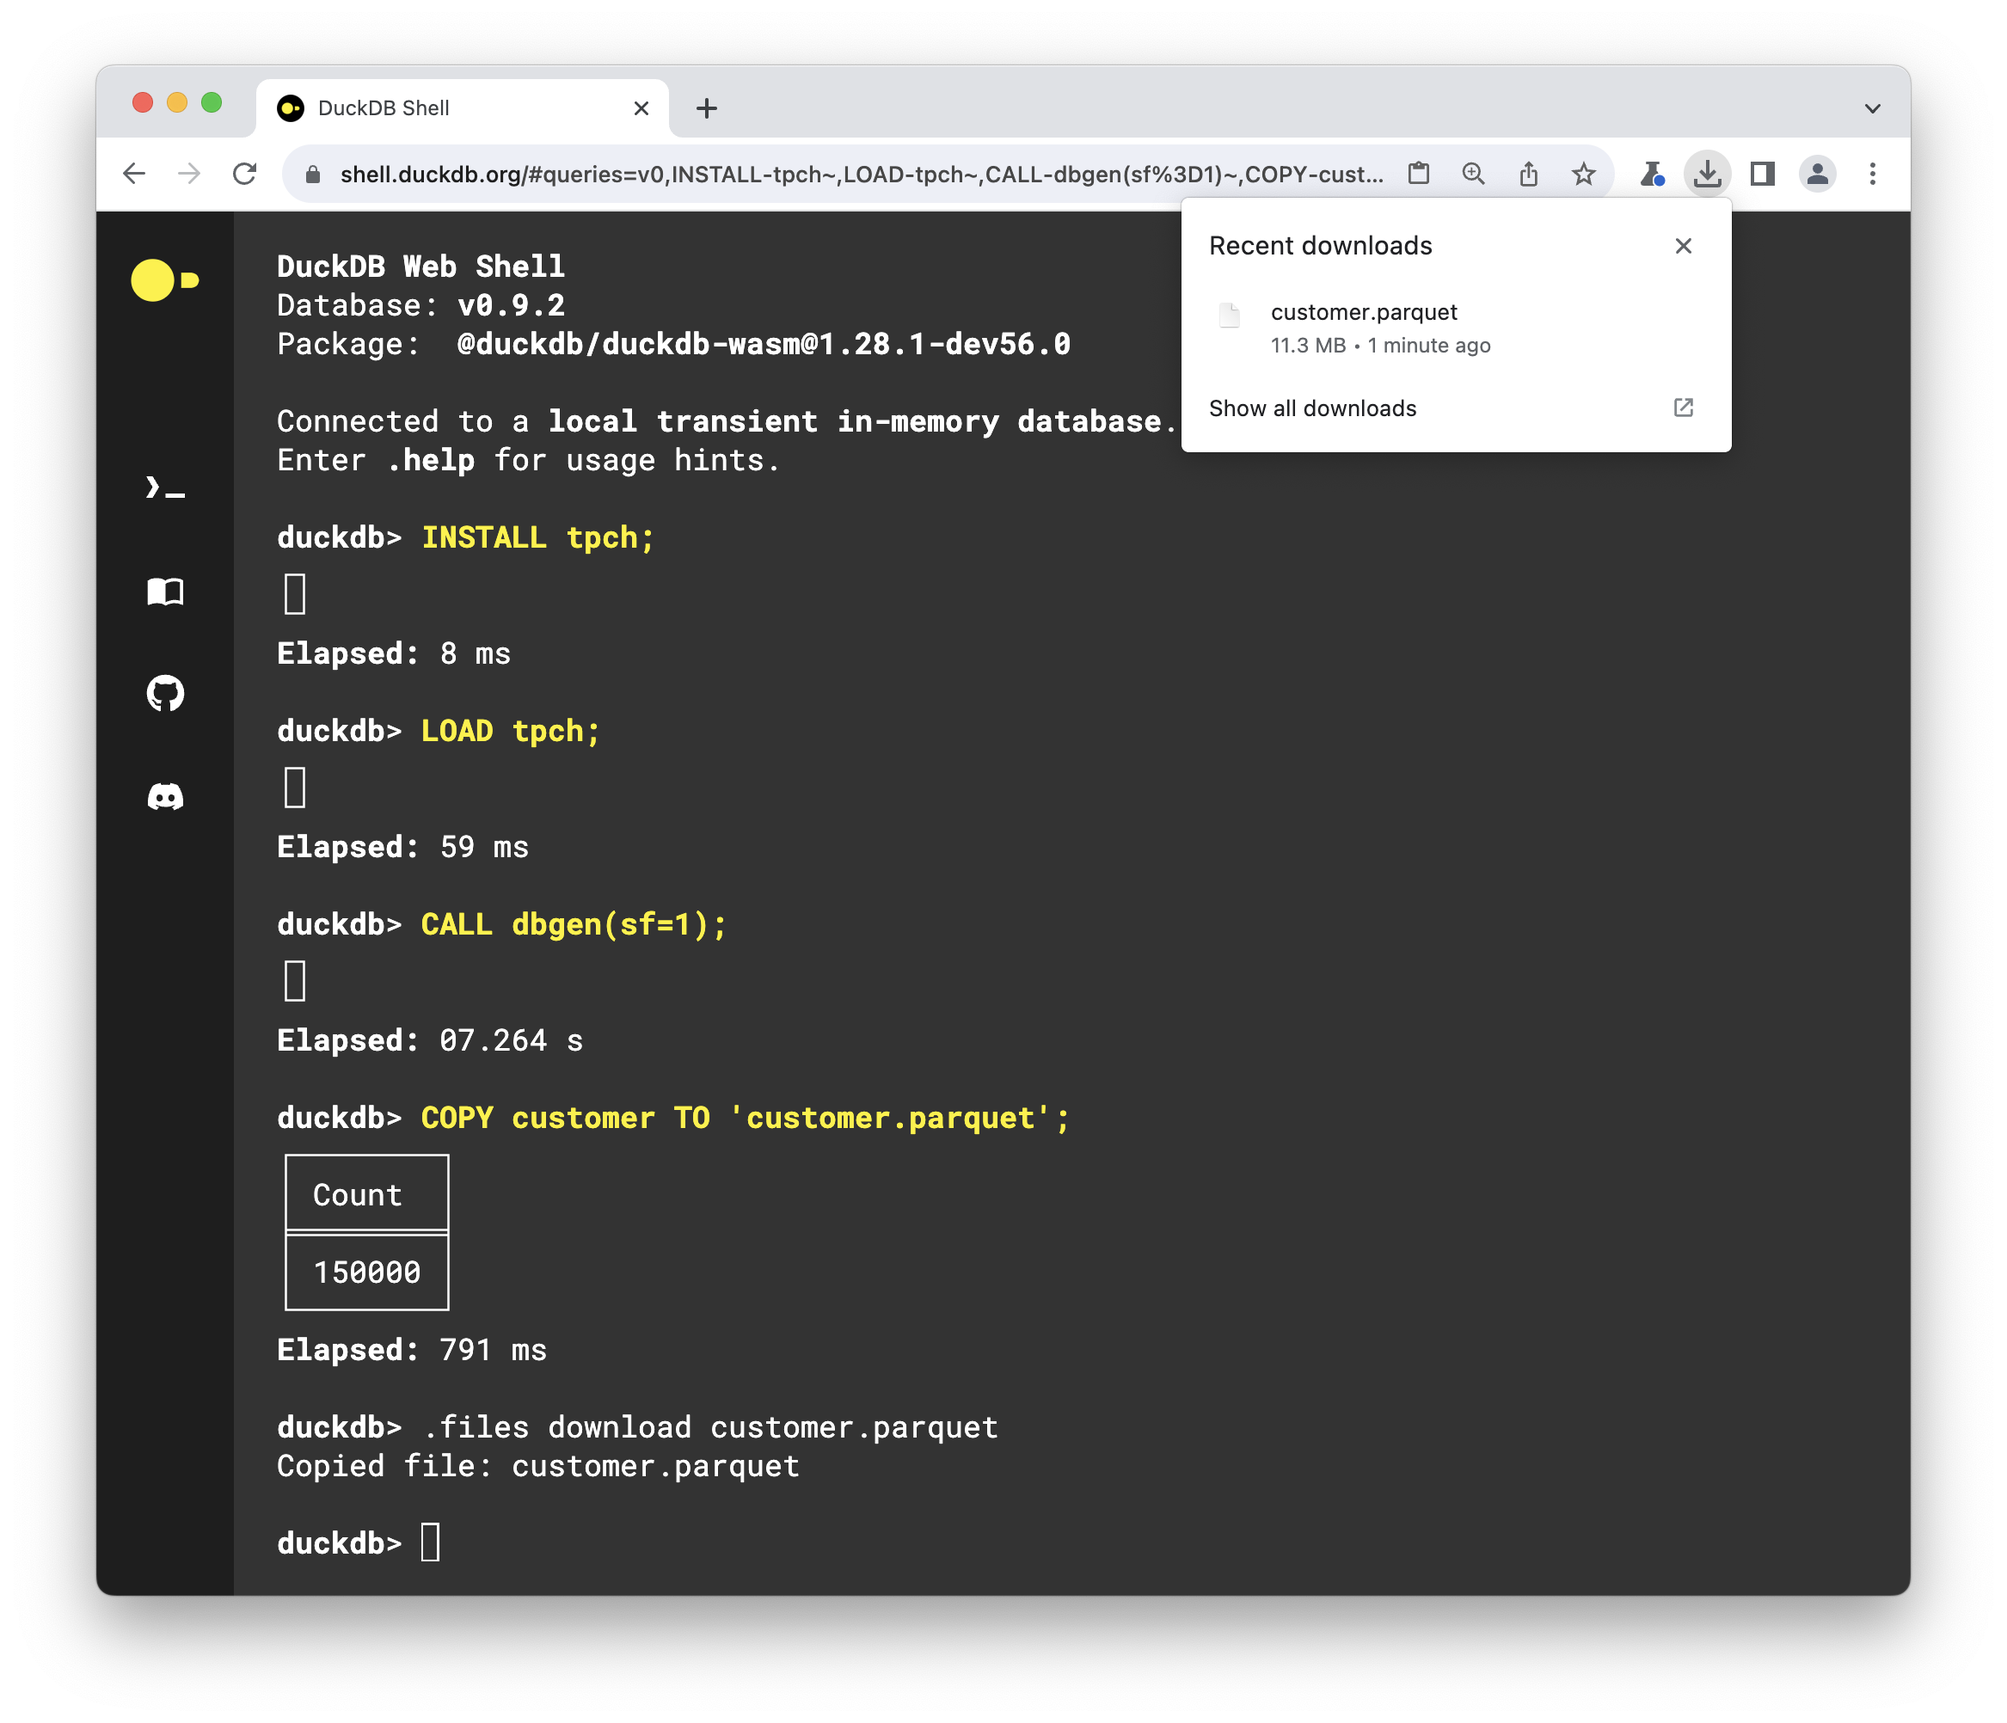
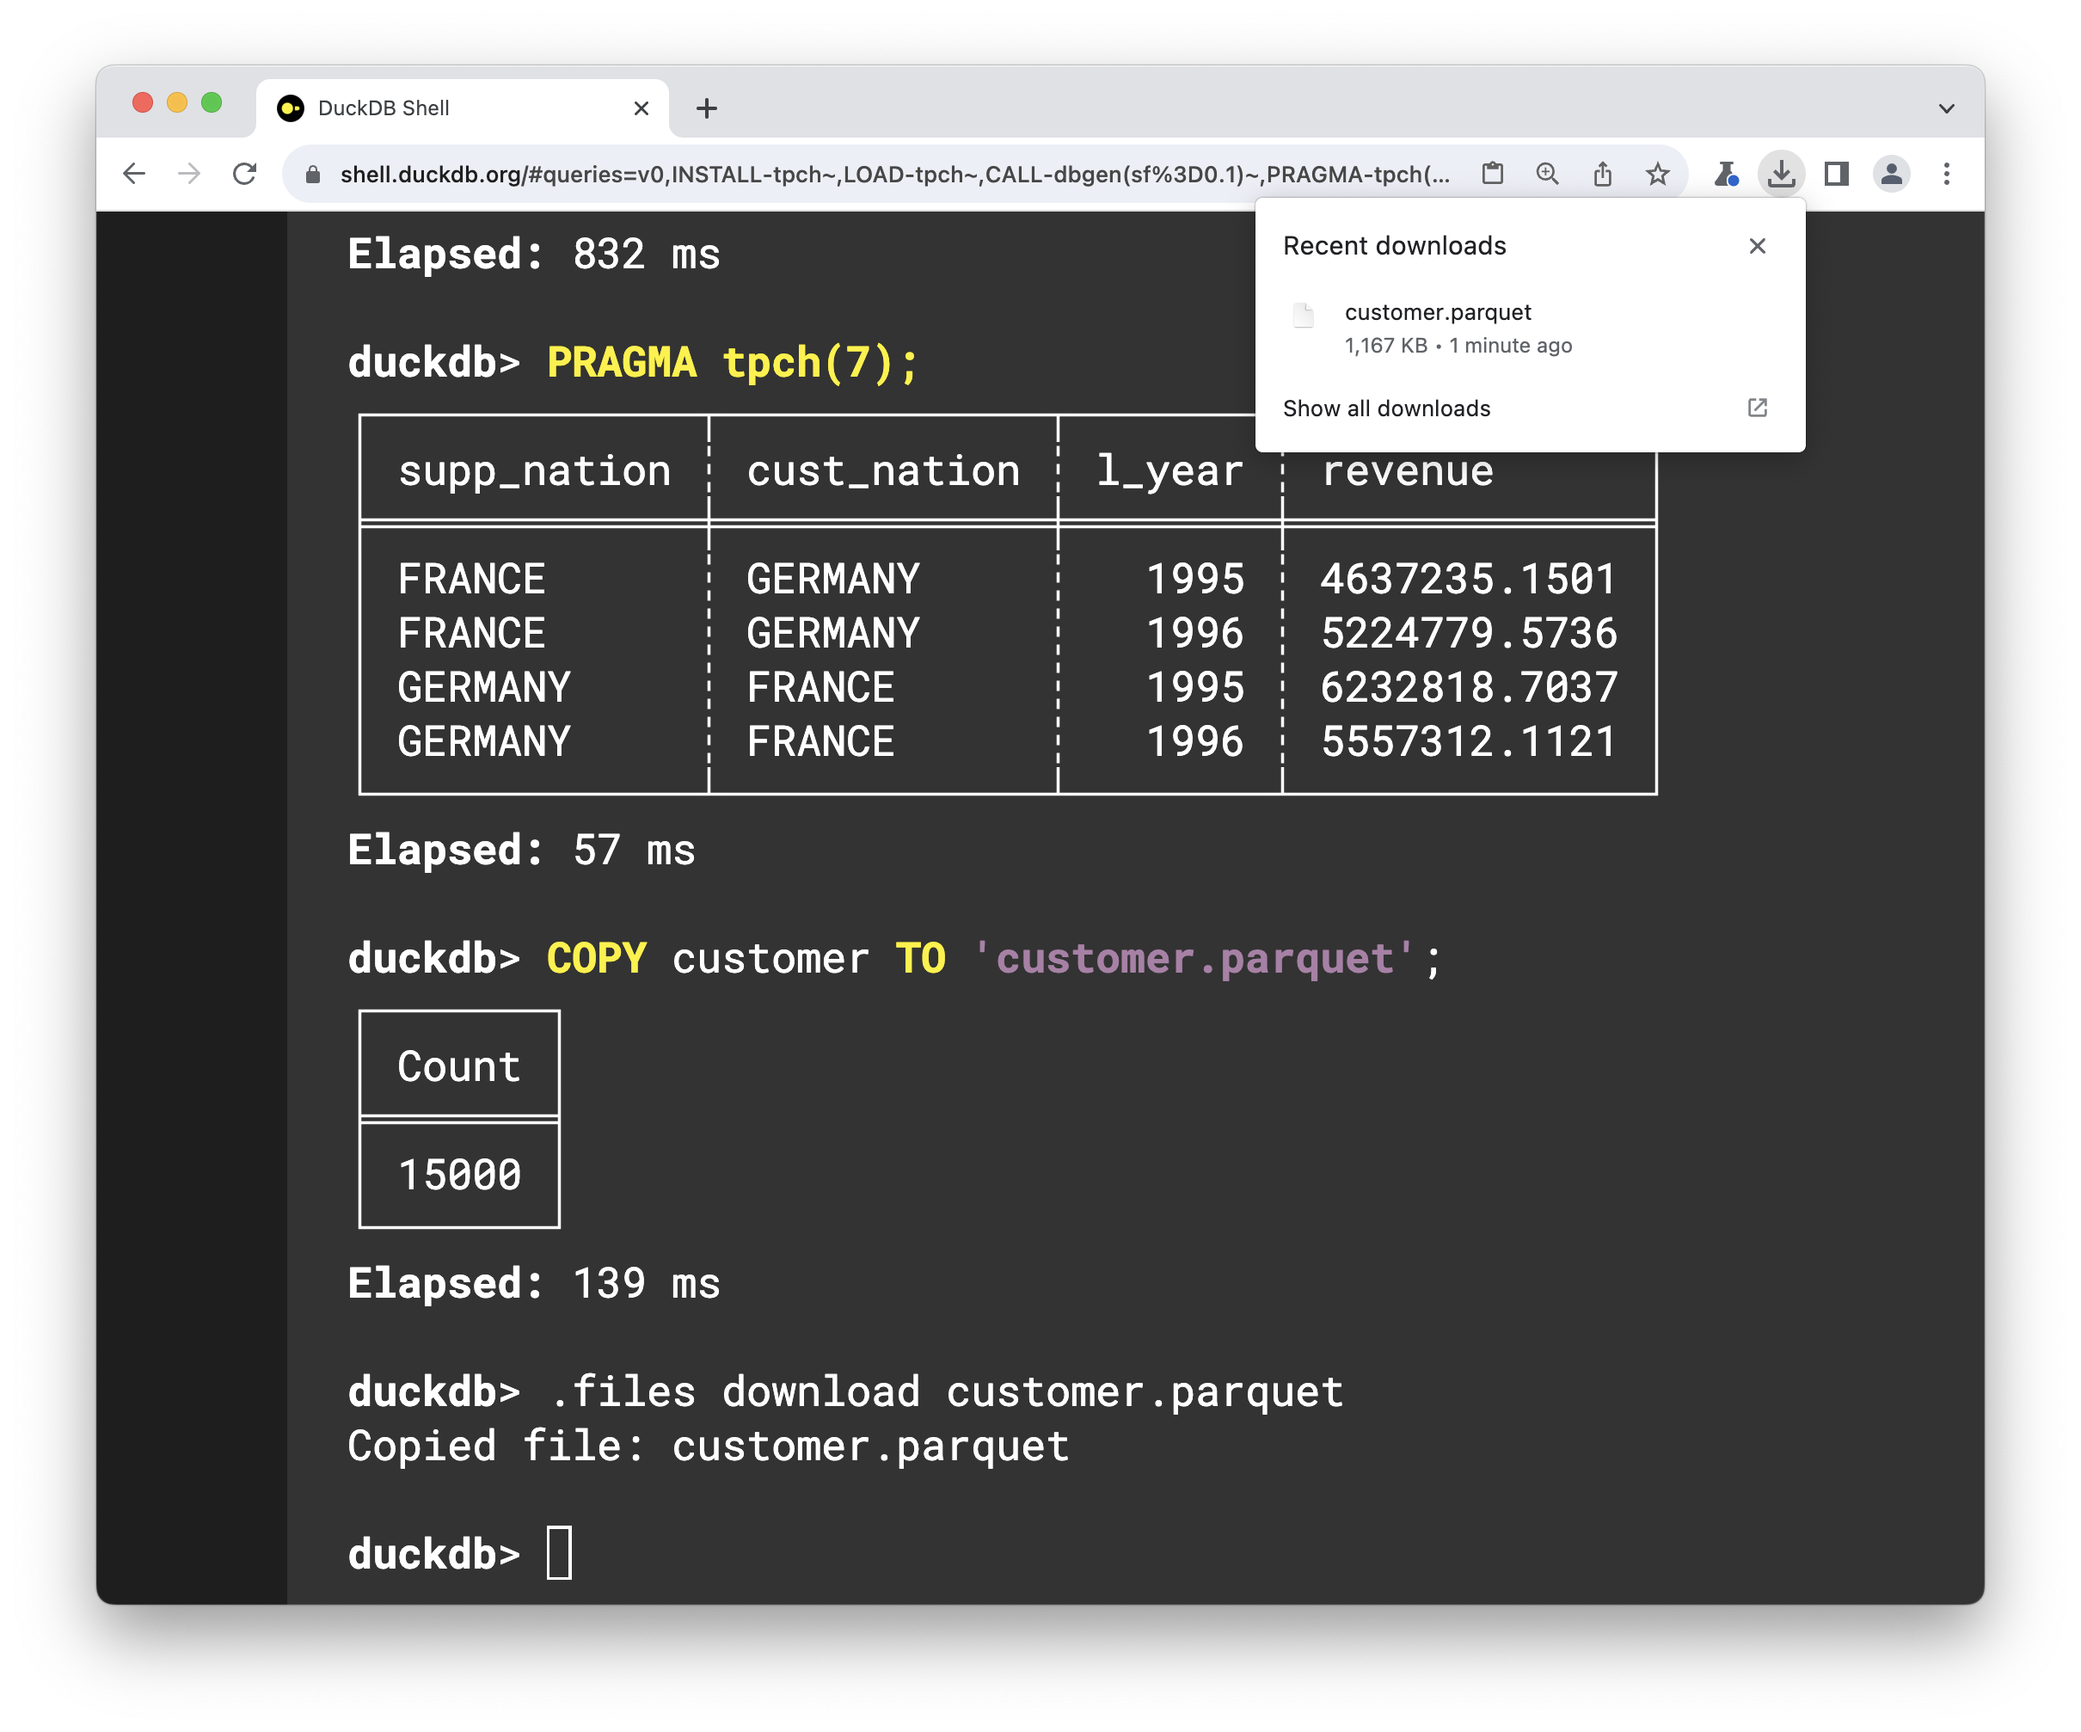
Work on Wasm blog post

diff --git a/_posts/2023-12-18-duckdb-extensions-in-wasm.md b/_posts/2023-12-18-duckdb-extensions-in-wasm.md
@@ -43,7 +43,7 @@ Thanks to DuckDB-Wasm, anyone has access to a DuckDB instance only a browser tab
 
 DuckDB-Wasm now supports DuckDB extensions.
 To demonstrate this, we will again use the [TPC-H data generation example](#running-duckdb-extensions-locally).
-To run this script in your browser, [start an online DuckDB shell that runs these commands](https://shell.duckdb.org/#queries=v0,INSTALL-tpch~,LOAD-tpch~,CALL-dbgen(sf%3D1)~,DESCRIBE~,COPY-customer-TO-'customer.parquet'~). The script will generate the TPC-H data set at scale factor 0.1, which corresponds to 100MB in uncompressed CSV format.
+To run this script in your browser, [start an online DuckDB shell that runs these commands](https://shell.duckdb.org/#queries=v0,INSTALL-tpch~,LOAD-tpch~,CALL-dbgen(sf%3D0.1)~,PRAGMA-tpch(7)~). The script will generate the TPC-H data set at scale factor 0.1, which corresponds to 100MB in uncompressed CSV format.
 
 Once the script finished, you can keep executing queries, or you could even download the `customer.parquet` file (1MB) using the following commands:
 
@@ -56,12 +56,11 @@ This will first copy the `customer.parquet` to the DuckDB-Wasm file system, then
 
 In short, your DuckDB instance, which _runs entirely within your browser,_ first installed and loaded the [TPC-H extension](/docs/extensions/tpch). It then used the extension logic to generate data and convert it to a Parquet file. Finally, you could download the Parquet file as a regular file to your local file system.
 
+<a href="https://shell.duckdb.org/#queries=v0,INSTALL-tpch~,LOAD-tpch~,CALL-dbgen(sf%3D0.1)~,PRAGMA-tpch(7)~">
 <img src="/images/wasm-blog-post-shell-tpch.png"
      alt="Wasm shell using the TPC-H extension"
-     width="820"
-     />
-
-TODO replace
+     width="800"
+     /></a>
 
 ## Key Features
 
@@ -81,7 +80,6 @@ Both components in the figure run within the web browser.
      alt="Overview of the architecture of DuckDB-Wasm"
      width="600"
      />
-
 
 When you load DuckDB-Wasm in your browser, there are two components that will be set up:
 A main-thread wrapper library that act as a bridge between users or code using DuckDB-Wasm and drives the background component. 
@@ -140,13 +138,11 @@ Second, we leverage Emscripten's [`dlopen` implementation](https://emscripten.or
 We see two main groups of developers using extensions with DuckDB-Wasm.
 
 * Developers working with DuckDB-Wasm: If you are building a website or a library that wraps DuckDB-Wasm, the new extension support means that there is now a wider range of functionality that can be exposed to your users.
-* Developers working on DuckDB extensions: If you have written a DuckDB extension already, or are thinking of doing so, consider porting that also to DuckDB-Wasm. It might be the easiest way to get your extension in the hands of users.
-
-In any case, the [`duckdb/extension-template` repository](https://github.com/duckdb/extension-template) is the place where to start.
+* Developers working on DuckDB extensions: If you have written a DuckDB extension, or are thinking of doing so, consider porting it to DuckDB-Wasm. The [DuckDB extension template repository](https://github.com/duckdb/extension-template) contains the configuration required for compiling to DuckDB-Wasm.
 
 ## The Spatial Extension
 
-To show the possibilities unlocked by DuckDB-Wasm extensions, and test the capabilities of what's possible, what about using the [spatial extension](/docs/extensions/spatial) within DuckDB-Wasm.
+To show the possibilities unlocked by DuckDB-Wasm extensions, and test the capabilities of what's possible, what about using the [spatial extension](/docs/extensions/spatial) within DuckDB-Wasm?
 This extension implements geospatial types and functions that allow it to work with geospatial data and relevant workloads.
 
 To install and load the spatial extension in DuckDB-Wasm, run:
@@ -172,15 +168,22 @@ SELECT borough, area, centroid::VARCHAR, count
 FROM nyc;
 ```
 
-Both in your local DuckDB client and the [online DuckDB shell](https://shell.duckdb.org/#queries=v0,INSTALL-spatial~,LOAD-spatial~,CREATE-TABLE-nyc-AS-SELECT-borough%2C-st_union_agg(geom)-AS-full_geom%2C-st_area(full_geom)-AS-area%2C-st_centroid(full_geom)-AS-centroid%2C-count(*)-AS-count-FROM-st_read('https%3A%2F%2Fraw.githubusercontent.com%2Fduckdb%2Fduckdb_spatial%2Fmain%2Ftest%2Fdata%2Fnyc_taxi%2Ftaxi_zones%2Ftaxi_zones.shp')-GROUP-BY-borough~,SELECT-borough%2C-area%2C-centroid%3A%3AVARCHAR%2C-count-FROM-nyc~) will perform the same analysis.
+Both your local DuckDB client and the [online DuckDB shell](https://shell.duckdb.org/#queries=v0,INSTALL-spatial~,LOAD-spatial~,CREATE-TABLE-nyc-AS-SELECT-borough%2C-st_union_agg(geom)-AS-full_geom%2C-st_area(full_geom)-AS-area%2C-st_centroid(full_geom)-AS-centroid%2C-count(*)-AS-count-FROM-st_read('https%3A%2F%2Fraw.githubusercontent.com%2Fduckdb%2Fduckdb_spatial%2Fmain%2Ftest%2Fdata%2Fnyc_taxi%2Ftaxi_zones%2Ftaxi_zones.shp')-GROUP-BY-borough~,SELECT-borough%2C-area%2C-centroid%3A%3AVARCHAR%2C-count-FROM-nyc~) will perform the same analysis.
 
 ## Limitations
 
-DuckDB-Wasm extensions have a few inherent limitations. For example, it is not possible to communicate with native executables living on your machine, which is required by (e.g.,) the [`aws`](/docs/extensions/aws) or [`azure`](/docs/extensions/azure) extensions. Moreover, 
-compilation to Wasm may not be currently supported for some libraries you are relying on, or capabilities might not be one-to-one with local executables due to additional requirements imposed on the browser, in particular around [non-secure HTTP requests](https://duckdb.org/docs/api/wasm/extensions#httpfs).
+DuckDB-Wasm extensions have a few inherent limitations. For example, it is not possible to communicate with native executables living on your machine, which is required by some extensions, such as the [`postgres` scanner extension](/docs/extensions/postgres).
+Moreover, compilation to Wasm may not be currently supported for some libraries you are relying on, or capabilities might not be one-to-one with local executables due to additional requirements imposed on the browser, in particular around [non-secure HTTP requests](https://duckdb.org/docs/api/wasm/extensions#httpfs).
 
 ## Conclusions
 
 In this blog post, we explained how DuckDB-Wasm supports extensions, and demonstrated with with multiple extensions: [TPC-H](/docs/extensions/tpch), [Parquet](/docs/extensions/parquet), and [spatial](/docs/extensions/spatial).
+
+Thanks to DuckDB and DuckDB-Wasm's portability, the scripts shown in this blog post also work on your smartphone:
+
+<img src="/images/wasm-blog-post-ios-shell.png"
+     alt="Wasm shell using the TPC-H extension on iOS"
+     width="400"
+     />
 
 For updates on the latest developments, follow this blog and join the Wasm channel in [our Discord](https://discord.duckdb.org). If you have an example of what's possible with extensions in DuckDB, let us know!
